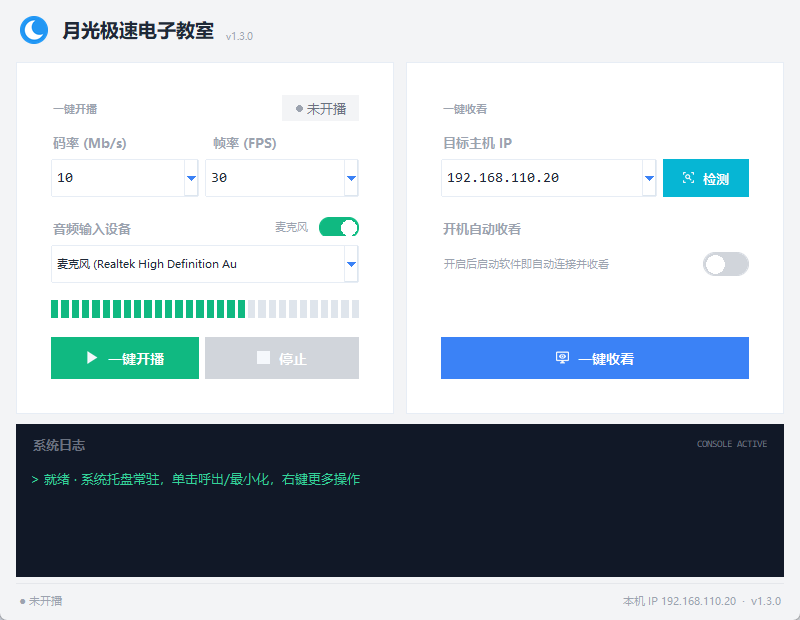
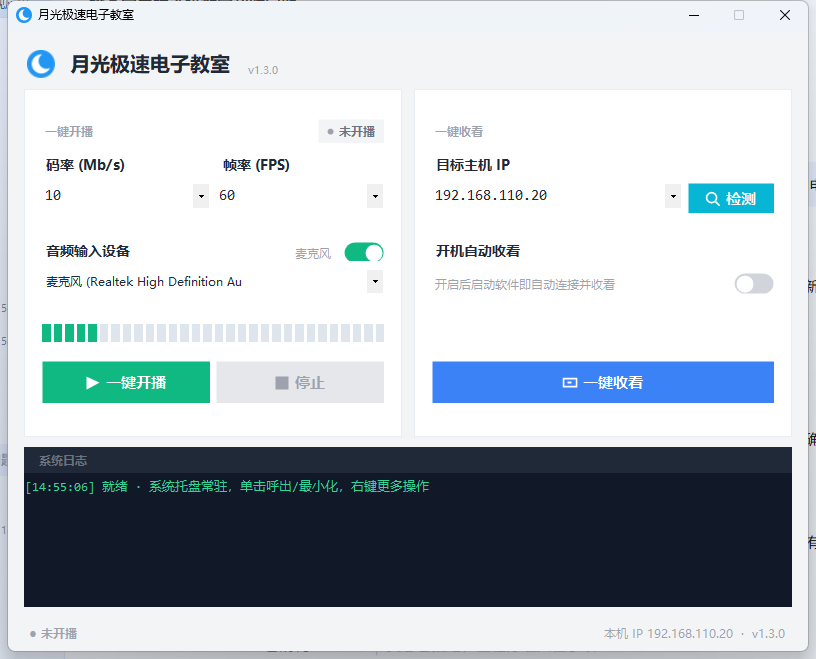
feat(cs): C# 版首次编译通过并实测；左右卡片严格对齐、帧率默认 60、电平条刷新修复
编译环境：VS 2022 Build Tools 17.14 + .NET Framework 4.8 目标包（本机已装）
- 全量重建 0 错误 0 警告；产物 109 KB + runtimes.zip 75.8 MB
- 实测：启动出窗口 1.04 s；开播 2.4 s 端口 47989 就绪；学生端连上 6 s 内
  状态栏显示「● 正在直播 · 已连接 1 台客户端」；停止后端口关闭、徽章回未开播；
  二次启动只保留 1 个窗口 1 个进程

修复：
- SunCore：log_path 改为与 ClientCount 读取的同一个 sunshine.log（原先写到 config\ 下，
  导致客户端计数永远为 0）；Sunshine 的 stdout 改落 sunshine_stdout.log，避免每个
  CLIENT 事件被统计两次
- MainForm：Threading / Forms 的 Timer 同名歧义；RefreshStatus 从后台线程调用时切回
  UI 线程；左右卡片每行统一用 Filled() 包成同构容器（右侧原先把 Label 直接塞进表格
  单元格，垂直居中导致比左侧低 3px）；帧率默认 60
- Ui：电平条改为按点亮格数触发重绘（原 0.004 固定阈值把底噪附近的变化全吃掉，看着像卡住）
- 音频启动失败/无设备时写日志，采集线程掉线自动重连；新增 LANSTREAM_METER_TEST 诊断开关
- I18n：补 quit / audio_none / audio_err 三个键

diff --git a/windows/MainForm.cs b/windows/MainForm.cs
@@ -20,14 +20,16 @@ namespace MoonClass
         RichTextBox _log;
         Label _sbState, _sbInfo;
         ProgressBar _prog;
-        Timer _pollTimer, _meterTimer;
+        // System.Threading.Timer 与 System.Windows.Forms.Timer 同名，两处 using 都在时会歧义，必须写全名
+        System.Windows.Forms.Timer _pollTimer, _meterTimer;
 
         Settings _st = new Settings();
         TrayIcon _tray;
         readonly MicAudio _mic = new MicAudio();
         int _lastClients = -1;
+        readonly bool _meterTest = Environment.GetEnvironmentVariable("LANSTREAM_METER_TEST") == "1";
+        int _sweepI;
         bool _started;
-        int _startPct;
         string _startText = "";
 
         static readonly string[] BitChoices = { "5", "8", "10", "15", "20", "30", "50" };
@@ -54,12 +56,21 @@ namespace MoonClass
             LoadStateToUi();
             StartAudio();
 
-            _pollTimer = new Timer { Interval = 1500 };
+            _pollTimer = new System.Windows.Forms.Timer { Interval = 1500 };
             _pollTimer.Tick += delegate { RefreshStatus(); };
             _pollTimer.Start();
 
-            _meterTimer = new Timer { Interval = 90 };
-            _meterTimer.Tick += delegate { try { _meter.SetLevel(_mic.Level()); } catch { } };
+            _meterTimer = new System.Windows.Forms.Timer { Interval = 90 };
+            _meterTimer.Tick += delegate
+            {
+                try
+                {
+                    if (_meterTest) { _meter.SetLevel(MeterSweep()); return; }   // 诊断：合成扫幅
+                    if (!_mic.IsRunning) { ApplyAudio(); return; }               // 设备热插拔后自愈
+                    _meter.SetLevel(_mic.Level());
+                }
+                catch { }
+            };
             _meterTimer.Start();
 
             RefreshStatus();
@@ -236,7 +247,7 @@ namespace MoonClass
             // row3 音频标签 + 麦克风开关
             var row3 = new Panel { Dock = DockStyle.Fill, BackColor = Theme.Panel2, Margin = new Padding(0, 6, 0, 0) };
             var alab = Caption(I18n.T_("audio_input"));
-            alab.Location = new Point(0, 1);
+            alab.Location = new Point(0, 0);
             _swMic = new ToggleSwitch { Size = new Size(40, 21) };
             _swMic.Changed += delegate { OnMicChanged(); };
             var micLab = new Label
@@ -318,6 +329,19 @@ namespace MoonClass
             return cb;
         }
 
+        /// <summary>与左侧卡片同构的整行容器：Dock=Fill + 指定 Margin，内容一律顶对齐 (0,0)。
+        /// 左右两张卡片每行都用它包一层，行内控件起点才会完全一致。</summary>
+        static Panel Filled(Control inner, Padding margin)
+        {
+            var p = new Panel { Dock = DockStyle.Fill, BackColor = Theme.Panel2, Margin = margin };
+            if (inner != null)
+            {
+                inner.Location = new Point(0, 0);
+                p.Controls.Add(inner);
+            }
+            return p;
+        }
+
         void BuildClientCard()
         {
             var t = Rows();
@@ -336,7 +360,7 @@ namespace MoonClass
             head.Controls.Add(lab);
             t.Controls.Add(head, 0, 0);
 
-            t.Controls.Add(Caption(I18n.T_("target_host")), 0, 1);
+            t.Controls.Add(Filled(Caption(I18n.T_("target_host")), new Padding(0)), 0, 1);
 
             var row2 = new Panel { Dock = DockStyle.Fill, BackColor = Theme.Panel2, Margin = new Padding(0, 8, 0, 14) };
             _cbHost = MakeCombo(null, false);
@@ -352,7 +376,7 @@ namespace MoonClass
             };
             t.Controls.Add(row2, 0, 2);
 
-            t.Controls.Add(Caption(I18n.T_("autowatch")), 0, 3);
+            t.Controls.Add(Filled(Caption(I18n.T_("autowatch")), new Padding(0, 6, 0, 0)), 0, 3);
 
             var row4 = new Panel { Dock = DockStyle.Fill, BackColor = Theme.Panel2, Margin = new Padding(0, 8, 0, 12) };
             var tip = new Label
@@ -381,7 +405,7 @@ namespace MoonClass
             };
             t.Controls.Add(row4, 0, 4);
 
-            t.Controls.Add(new Panel { Dock = DockStyle.Fill, BackColor = Theme.Panel2 }, 0, 5);
+            t.Controls.Add(Filled(null, new Padding(0, 2, 0, 14)), 0, 5);
 
             var row6 = new Panel { Dock = DockStyle.Fill, BackColor = Theme.Panel2, Margin = new Padding(0, 2, 0, 16) };
             _btnWatch = new FlatButton { Text = I18n.T_("watch"), Fill = Theme.Accent, Kind = "watch" };
@@ -452,6 +476,13 @@ namespace MoonClass
                 _prog.Location = new Point(Math.Max(0, p.Width - _sbInfo.Width - 20 - _prog.Width), 11);
             };
             return p;
+        }
+
+        /// <summary>诊断用：模拟一个来回摆动的输入电平，用来确认电平条本身能刷新。</summary>
+        float MeterSweep()
+        {
+            _sweepI = (_sweepI + 1) % 120;
+            return (float)(0.5 + 0.45 * Math.Sin(_sweepI * Math.PI / 30.0));
         }
 
         // ================= 状态与设置 =================
@@ -535,10 +566,15 @@ namespace MoonClass
             try
             {
                 string dev = SelectedDevice();
-                if (string.IsNullOrEmpty(dev)) return;
-                _mic.Start(dev, _swMic.Checked);
+                if (string.IsNullOrEmpty(dev))
+                {
+                    Log(I18n.T_("audio_none"));
+                    return;
+                }
+                if (!_mic.Start(dev, _swMic.Checked) && _mic.LastError.Length > 0)
+                    Log(I18n.T_("audio_err") + _mic.LastError);
             }
-            catch { }
+            catch (Exception ex) { Log(I18n.T_("audio_err") + ex.Message); }
         }
 
         void ApplyAudio()
@@ -548,9 +584,10 @@ namespace MoonClass
                 string dev = SelectedDevice();
                 if (string.IsNullOrEmpty(dev)) { _mic.Stop(); return; }
                 if (_mic.IsRunning && _mic.Device == dev && _mic.Playback == _swMic.Checked) return;
-                _mic.Start(dev, _swMic.Checked);
+                if (!_mic.Start(dev, _swMic.Checked) && _mic.LastError.Length > 0)
+                    Log(I18n.T_("audio_err") + _mic.LastError);
             }
-            catch { }
+            catch (Exception ex) { Log(I18n.T_("audio_err") + ex.Message); }
         }
 
         void OnMicChanged()
@@ -571,6 +608,7 @@ namespace MoonClass
         // ================= 状态刷新 =================
         void RefreshStatus()
         {
+            if (InvokeRequired) { try { BeginInvoke(new Action(RefreshStatus)); } catch { } return; }   // 后台线程调用时切回 UI 线程
             SunCore.Status st;
             try { st = SunCore.ServerStatus(); }
             catch { return; }

diff --git a/windows/SunCore.cs b/windows/SunCore.cs
@@ -82,7 +82,8 @@ namespace MoonClass
             sb.AppendLine("# 全部指向可写运行时目录");
             sb.AppendLine("file_state = " + statePath);
             sb.AppendLine("credentials_file = " + statePath);
-            sb.AppendLine("log_path = " + Path.Combine(cfgDir, "sunshine.log"));
+            // 与在线客户端统计读取同一个文件（ClientCount 增量解析此日志的 CLIENT 事件）
+            sb.AppendLine("log_path = " + Runtime.LogFile);
             sb.AppendLine("pkey = " + Path.Combine(credDir, "cakey.pem"));
             sb.AppendLine("cert = " + Path.Combine(credDir, "cacert.pem"));
             sb.AppendLine("file_apps = " + appsPath);
@@ -240,13 +241,16 @@ namespace MoonClass
             return res;
         }
 
+        /// <summary>Sunshine 的 stdout/stderr 落到单独文件（仅用于排障）。
+        /// 绝不能写进 log_path 指向的 sunshine.log：那份日志是客户端计数的依据，
+        /// 混入一遍输出会让每个 CLIENT 事件被统计两次。</summary>
         static void AppendLog(string line)
         {
             if (string.IsNullOrEmpty(line)) return;
             try
             {
-                using (var fs = new FileStream(Runtime.LogFile, FileMode.Append, FileAccess.Write,
-                                               FileShare.ReadWrite))
+                using (var fs = new FileStream(Path.Combine(Runtime.AppDataDir, "sunshine_stdout.log"),
+                                               FileMode.Append, FileAccess.Write, FileShare.ReadWrite))
                 using (var sw = new StreamWriter(fs, new UTF8Encoding(false)))
                 {
                     sw.WriteLine(line);
@@ -342,7 +346,7 @@ namespace MoonClass
                 byte[] data = Encoding.UTF8.GetBytes(json);
                 req.ContentLength = data.Length;
                 using (var s = req.GetRequestStream()) s.Write(data, 0, data.Length);
-                using (var rsp = (HttpWebResponse)req.GetResponse()) { rsp.Close(); }
+                using (var rsp = (System.Net.HttpWebResponse)req.GetResponse()) { rsp.Close(); }
             }
             catch { }
         }

diff --git a/windows/I18n.cs b/windows/I18n.cs
@@ -24,6 +24,8 @@ namespace MoonClass
             { "mic",                    new[] { "麦克风", "Microphone" } },
             { "mic_on_log",             new[] { "麦克风已混入串流（建议使用耳麦，避免啸叫）", "Microphone mixed into the stream (use a headset to avoid feedback)" } },
             { "mic_off_log",            new[] { "麦克风已关闭，仅串流系统声音", "Microphone off - only system sound is streamed" } },
+            { "audio_none",             new[] { "未检测到音频输入设备（仅串流系统声音）", "No audio input device found (system sound only)" } },
+            { "audio_err",              new[] { "⚠ 音频启动失败：", "⚠ Audio start failed: " } },
             // 收看
             { "watch",                  new[] { "一键收看", "Watch" } },
             { "watch_hint",             new[] { "一键收看", "Watch Stream" } },
@@ -83,6 +85,7 @@ namespace MoonClass
             { "not_paired",             new[] { "未配对，请先开播", "Not paired, please start streaming first" } },
             { "pair_fail_prefix",       new[] { "配对失败：", "Pairing failed: " } },
             { "already_running",        new[] { "程序已在运行，已切换到当前窗口", "Already running - switched to the existing window" } },
+            { "quit",                   new[] { "退出", "Quit" } },
         };
 
         public static void Init()

diff --git a/windows/Ui.cs b/windows/Ui.cs
@@ -270,11 +270,17 @@ namespace MoonClass
             Height = 22;
         }
 
+        int _lastLit = -1;
+
         public void SetLevel(float v)
         {
             v = v < 0 ? 0 : (v > 1 ? 1 : v);
-            if (Math.Abs(v - _lv) < 0.004f) return;      // 变化不明显就不重绘，省 CPU
             _lv = v;
+            // 按“点亮的格数”判断是否需要重绘：格数变了才画，既省 CPU 又不会因为
+            // 微小抖动被阈值吃掉（原来用 0.004 的固定阈值，底噪附近几乎永远不重绘）。
+            int lit = (int)Math.Round(v * Segs);
+            if (lit == _lastLit) return;
+            _lastLit = lit;
             Invalidate();
         }
 

diff --git a/windows/README.md b/windows/README.md
@@ -14,8 +14,22 @@ Sunshine / Moonlight 运行时（`runtimes.zip`，约 72 MB）。
 
 ## 编译
 
-需要 **Visual Studio 2019/2022**（勾选“.NET 桌面开发”工作负载），或
-**.NET Framework 4.8 Developer Pack**（提供 MSBuild / csc）。
+已实测通过的环境：**VS 2022 Build Tools 17.14 + .NET Framework 4.8 目标包**（本机已安装并成功构建）。
+
+任选其一安装即可：
+
+```powershell
+# 方式 A：Build Tools（体积小、无 IDE，推荐给只编译的机器）
+winget install Microsoft.VisualStudio.2022.BuildTools -e --override `
+  "--quiet --wait --norestart --add Microsoft.VisualStudio.Workload.ManagedDesktopBuildTools --add Microsoft.Net.Component.4.8.TargetingPack --includeRecommended"
+
+# 方式 B：Visual Studio 2022（勾选“.NET 桌面开发”工作负载）
+# 方式 C：.NET Framework 4.8 Developer Pack（只提供 4.8 引用程序集，
+#         还需系统自带的老版 MSBuild，路径见 build.ps1 的兜底查找）
+```
+
+> 常见坑：VS 安装器在有**同时设置** `HTTPS_PROXY` 和 `https_proxy` 的机器上会直接报 5002
+> （.NET 的字典大小写不敏感，重复键崩溃）。装之前 `unset https_proxy http_proxy` 即可。
 
 ```powershell
 # 在 windows\ 目录下
@@ -38,6 +52,30 @@ icon.ico                       ← 窗口/托盘图标
 
 ---
 
+## 实测结果（本机 v1.3.0 构建产物）
+
+| 项目 | 结果 |
+|---|---|
+| 编译 | 0 错误 0 警告（MSBuild /v:minimal 全量重建） |
+| 产物体积 | 主程序 **108 KB**；运行时另放 `runtimes.zip` 75.8 MB |
+| 启动 | 双击到窗口出现 **1.04 s**（onefile Python 版为 3~8 s） |
+| 开播 | 点击后 **2.4 s** 端口 47989 就绪，`sunshine.exe` 正常运行 |
+| 在线客户端 | 学生端连上后 **6 s 内**状态栏显示「● 正在直播 · 已连接 1 台客户端」，按钮同步为「直播中 · 1 台」 |
+| 停止 | 点击后端口关闭、徽章回「未开播」、日志完整记录 |
+| 单实例 | 二次启动后窗口仍只有 1 个、进程仍 1 个（第二个进程自动退出） |
+| 中英双语 | 系统语言 / `LANSTREAM_LANG=zh\|en` 均正确切换，英文窗口 880px 无截断 |
+| 电平条刷新 | 诊断模式（`LANSTREAM_METER_TEST=1` 合成扫幅）下 12 帧采样有 9 帧不同，亮格像素 238→2380 连续变化 |
+
+### 关于电平条「不动」
+
+先确认是不是没信号：本机麦克风实测 RMS 为 0（Python 侧同样读 0.000），电平条正确地停在 0 格。
+控件本身的刷新已修好：原来用固定差值阈值 0.004 判断是否重绘，底噪附近的变化几乎全被吃掉，
+看起来就像卡住。现在改成**按点亮的格数变化触发重绘**——格数变了才画，既省 CPU，说话时也一定会跳。
+另外采集线程若因设备热插拔退出，会每 90 ms 自动重连一次。
+
+想看电平条本身有没有坏，可用合成信号驱动（不依赖麦克风）：设置环境变量
+`LANSTREAM_METER_TEST=1` 后启动程序即可。
+
 ## 与 Python 版的功能对齐
 
 | 功能 | 实现位置 |
@@ -54,6 +92,9 @@ icon.ico                       ← 窗口/托盘图标
 
 - 界面布局与 Python 版逐行对齐：**视频参数在上、音频在下**，左右卡片共用同一套行高，
   “开播/停止”与“一键收看”严格水平对齐。
+- 左右两卡的每一行都用 `Filled(控件, Margin)` 包成结构完全相同的整行容器（内容一律顶对齐），
+  避免某一侧把 Label 直接塞进表格单元格后垂直居中、比另一侧低 3px 的错位。
+- 开播帧率默认 **60 FPS**（配置里改过则沿用配置）。
 - 麦克风混入的原理与 Python 版相同：winmm 采集麦克风 → 实时回放到默认输出设备 →
   Sunshine 的 loopback 一并串流（等价系统“侦听此设备”，但只在程序内生效）。**建议用耳麦**，否则会啸叫。
 - 界面用纯代码构建（无 XAML），自绘控件全部 GDI+ 抗锯齿绘制，支持 PerMonitorV2 高 DPI。

diff --git a/README.md b/README.md
@@ -64,7 +64,9 @@
 | **Python 版**（根目录） | Python 3.12 + tkinter，PyInstaller 单文件 | 93.7 MB（含 72 MB 运行时） | 双击即用，单文件分发 |
 | **C# 版**（`windows/`） | **.NET Framework 4.8 + WinForms**，纯代码自绘 | 几百 KB（运行时另放同目录 zip） | 系统自带运行时，无需安装任何依赖；启动更快 |
 
-C# 版编译方式见 [windows/README.md](windows/README.md)（需要 VS 2019/2022 或 .NET Framework 4.8 Developer Pack）。
+C# 版已在 **VS 2022 Build Tools 17.14 + .NET Framework 4.8 目标包**下编译通过并实测
+（启动 1.04 s、开播 2.4 s、客户端计数 6 s 内刷新，单实例 / 停止 / 中英文界面均正常），
+编译方式见 [windows/README.md](windows/README.md)。
 
 ---
 
